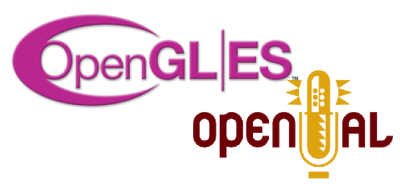
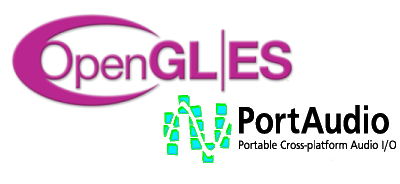
Update Product descriptions. #2

Changed region(s): [[0.39, 0.3804, 0.99, 0.9783]]

diff --git a/index.html b/index.html
@@ -46,9 +46,8 @@
                         <li class="active"><a href="index.html">Home</a></li>
                         <li class="dropdown"><a href="#">Tools<i class="fa fa-angle-down"></i></a>
                             <ul role="menu" class="sub-menu">
-                                <li><a href="https://github.com/kabuki-starship/kabuki-toolkit/tree/master/source/kabuki/script">Chinese Room</a></li>
+                                <li><a href="https://github.com/kabuki-starship/script">Script Specification</a></li>
                                 <li><a href="https://github.com/kabuki-starship/kabuki-toolkit">Kabuki Toolkit</a></li>
-                                <li><a href="https://github.com/kabuki-starship/kabuki-toolkit/tree/master/source/kabuki/tek">Kabuki Tek</a></li>
                             </ul>
                         </li>
                         <li><a href="downloads.html ">Downloads</a></li>    
@@ -77,8 +76,8 @@
             <div class="row">
                 <div class="main-slider">
                     <div class="slide-text">
-                        <h1 style="text-align:center">A modern cross-platform C/C++11 toolkit for making intelligent connected technologies, plugins, games, servers, firmware, and art.</h1>
-                        <p>A modern cross-platform C++11 Toolkit for creating intelligent connected devices, apps, plugins, controllers, robots, and more!</p>
+                        <h1 style="text-align:center">Technology and art built with Script and Kabuki Toolkit.</h1>
+                        <p>Innovative Embedded-C++11 core based on mbed with SCRIPT Software-defined Networking Protocol based on the powerful Chinese Room Abstract Stack Machine (Crabs) and contiguous ASCII Data Types.</p>
                         <a href="https://github.com/orgs/kabuki-starship/" class="btn btn-common">View Github</a>
                     </div>
                     <div class="logo-cluster">
@@ -104,13 +103,13 @@
                             <a href="https://github.com/kabuki-starship/kabuki-toolkit/wiki/Script-Protocol-RFC"><img src="images/home/chinese-room-icon.png" alt=""></a>
                         </div>
                         <h2><a href="https://github.com/kabuki-starship/ChineseRoom">Script^2</a></h2>
-                        <p>Serial Chinese Room, Interprocess, and Telemetry (SCRIPT) Specification.</p>
+                        <p>Serial Chinese Room, Interprocess, and Telemetry (SCRIPT) Specification defines the SCRIPT Software-defined Networking Protocol and ASCII Data Types.</p>
                     </div>
                 </div>
                 <div class="col-sm-4 text-center padding wow fadeIn" data-wow-duration="1000ms" data-wow-delay="300ms">
                     <div class="single-service">
                         <div class="wow scaleIn" data-wow-duration="500ms" data-wow-delay="300ms">
-                            <a href="https://github.com/kabuki-starship/Kabuki-toolkit"><img src="images/home/kabuki-sdk-icon.png" alt=""></a>
+                            <a href="https://github.com/kabuki-starship/Kabuki-toolkit"><img src="images/home/kabuki-toolkit-icon.png" alt=""></a>
                         </div>
                         <h2><a href="https://github.com/kabuki-starship/kabuki-toolkit">Kabuki Toolkit</a></h2>
                         <p>A modern cross-platform C/C++11 toolkit for making intelligent connected technologies, plugins, games, servers, firmware, and art.</p>
@@ -119,7 +118,7 @@
                 <div class="col-sm-4 text-center padding wow fadeIn" data-wow-duration="1000ms" data-wow-delay="900ms">
                     <div class="single-service">
                         <div class="wow scaleIn" data-wow-duration="500ms" data-wow-delay="900ms">
-                            <a href="https://github.com/kabuki-starship/Kabuki-FDK"><img src="images/home/kabuki-fdk-icon.png" alt=""></a>
+                            <a href="https://github.com/kabuki-starship/kabuki-toolkit"><img src="images/home/kabuki-f2-icon.png" alt=""></a>
                         </div>
                         <h2><a href="https://github.com/kabuki-starship/kabuki-theater">F2 Foundational Framework</a></h2>
                         <p>A modern C++ nanoframework and Standard Seam Tree Unit Testing Framework for quick little diddles and big daddies.</p>
@@ -160,7 +159,7 @@
                     </div>
                     <div class="col-sm-6 wow fadeInRight" data-wow-duration="500ms" data-wow-delay="300ms">
                         <h2>Single Cross-platform Library</h2>
-                        <P>With Google Angle, OpenAL, and Visual Studio 2015 you can write one GUI and audio library that runs runs on Windows, OSX, Linux, iOS, and Android!</P>
+                        <P>With Google ANGLE, Cairo, PortAudio, and Visual Studio Community Edition you can write one GUI and audio library for apps, games and plugins that runs on Windows, OSX, Linux, iOS, and Android!</P>
                     </div>
                 </div>
                 <div class="single-features">
@@ -178,7 +177,7 @@
                     </div>
                     <div class="col-sm-6 wow fadeInRight" data-wow-duration="500ms" data-wow-delay="300ms">
                         <h2>Virtual Control Technology</h2>
-                        <P>The Kabuki Starship is built completely around Searle's Chinese Room, Interprocess, and Telemetry (SCRIPT) Specification. Script allows for secure sophisticated mapping of controls and interprocess communication for the Internet of Things.</P>
+                        <P>The Kabuki Starship is built completely around the Serial Chinese Room, Interprocess, and Telemetry (SCRIPT) Specification. Script allows for secure sophisticated mapping of controls and interprocess communication for the Internet of Things.</P>
                     </div>
                 </div>
             </div>
